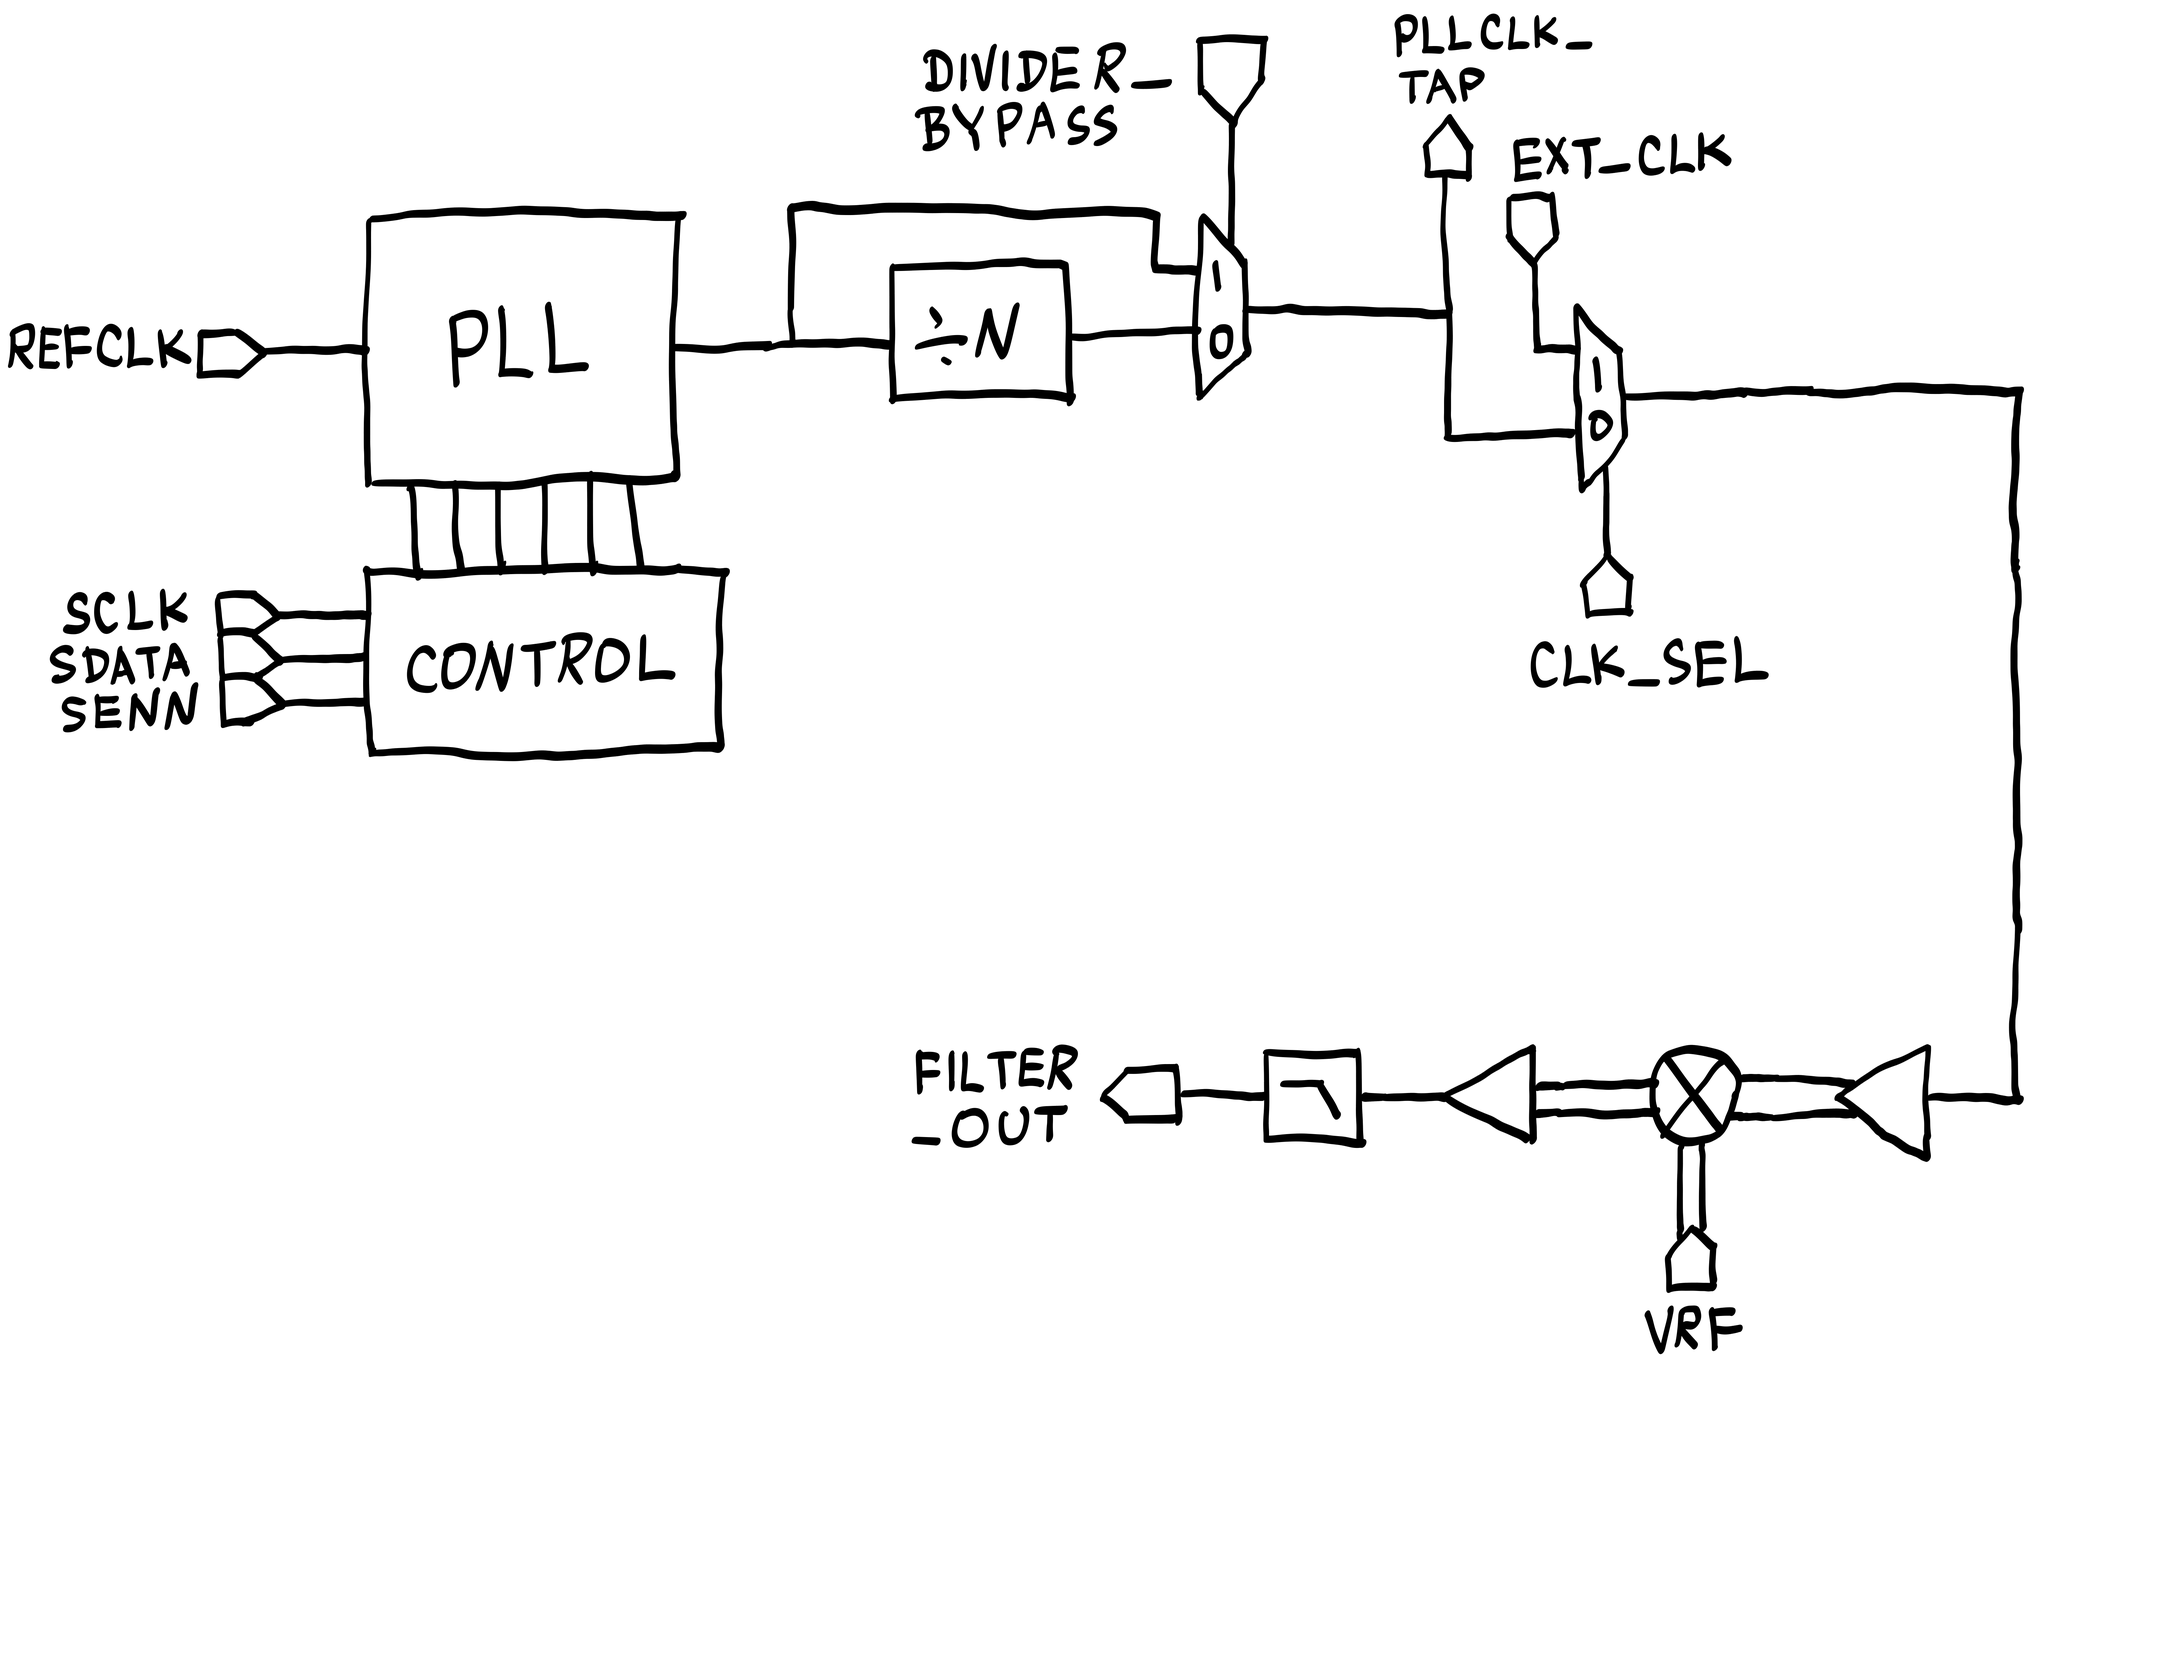
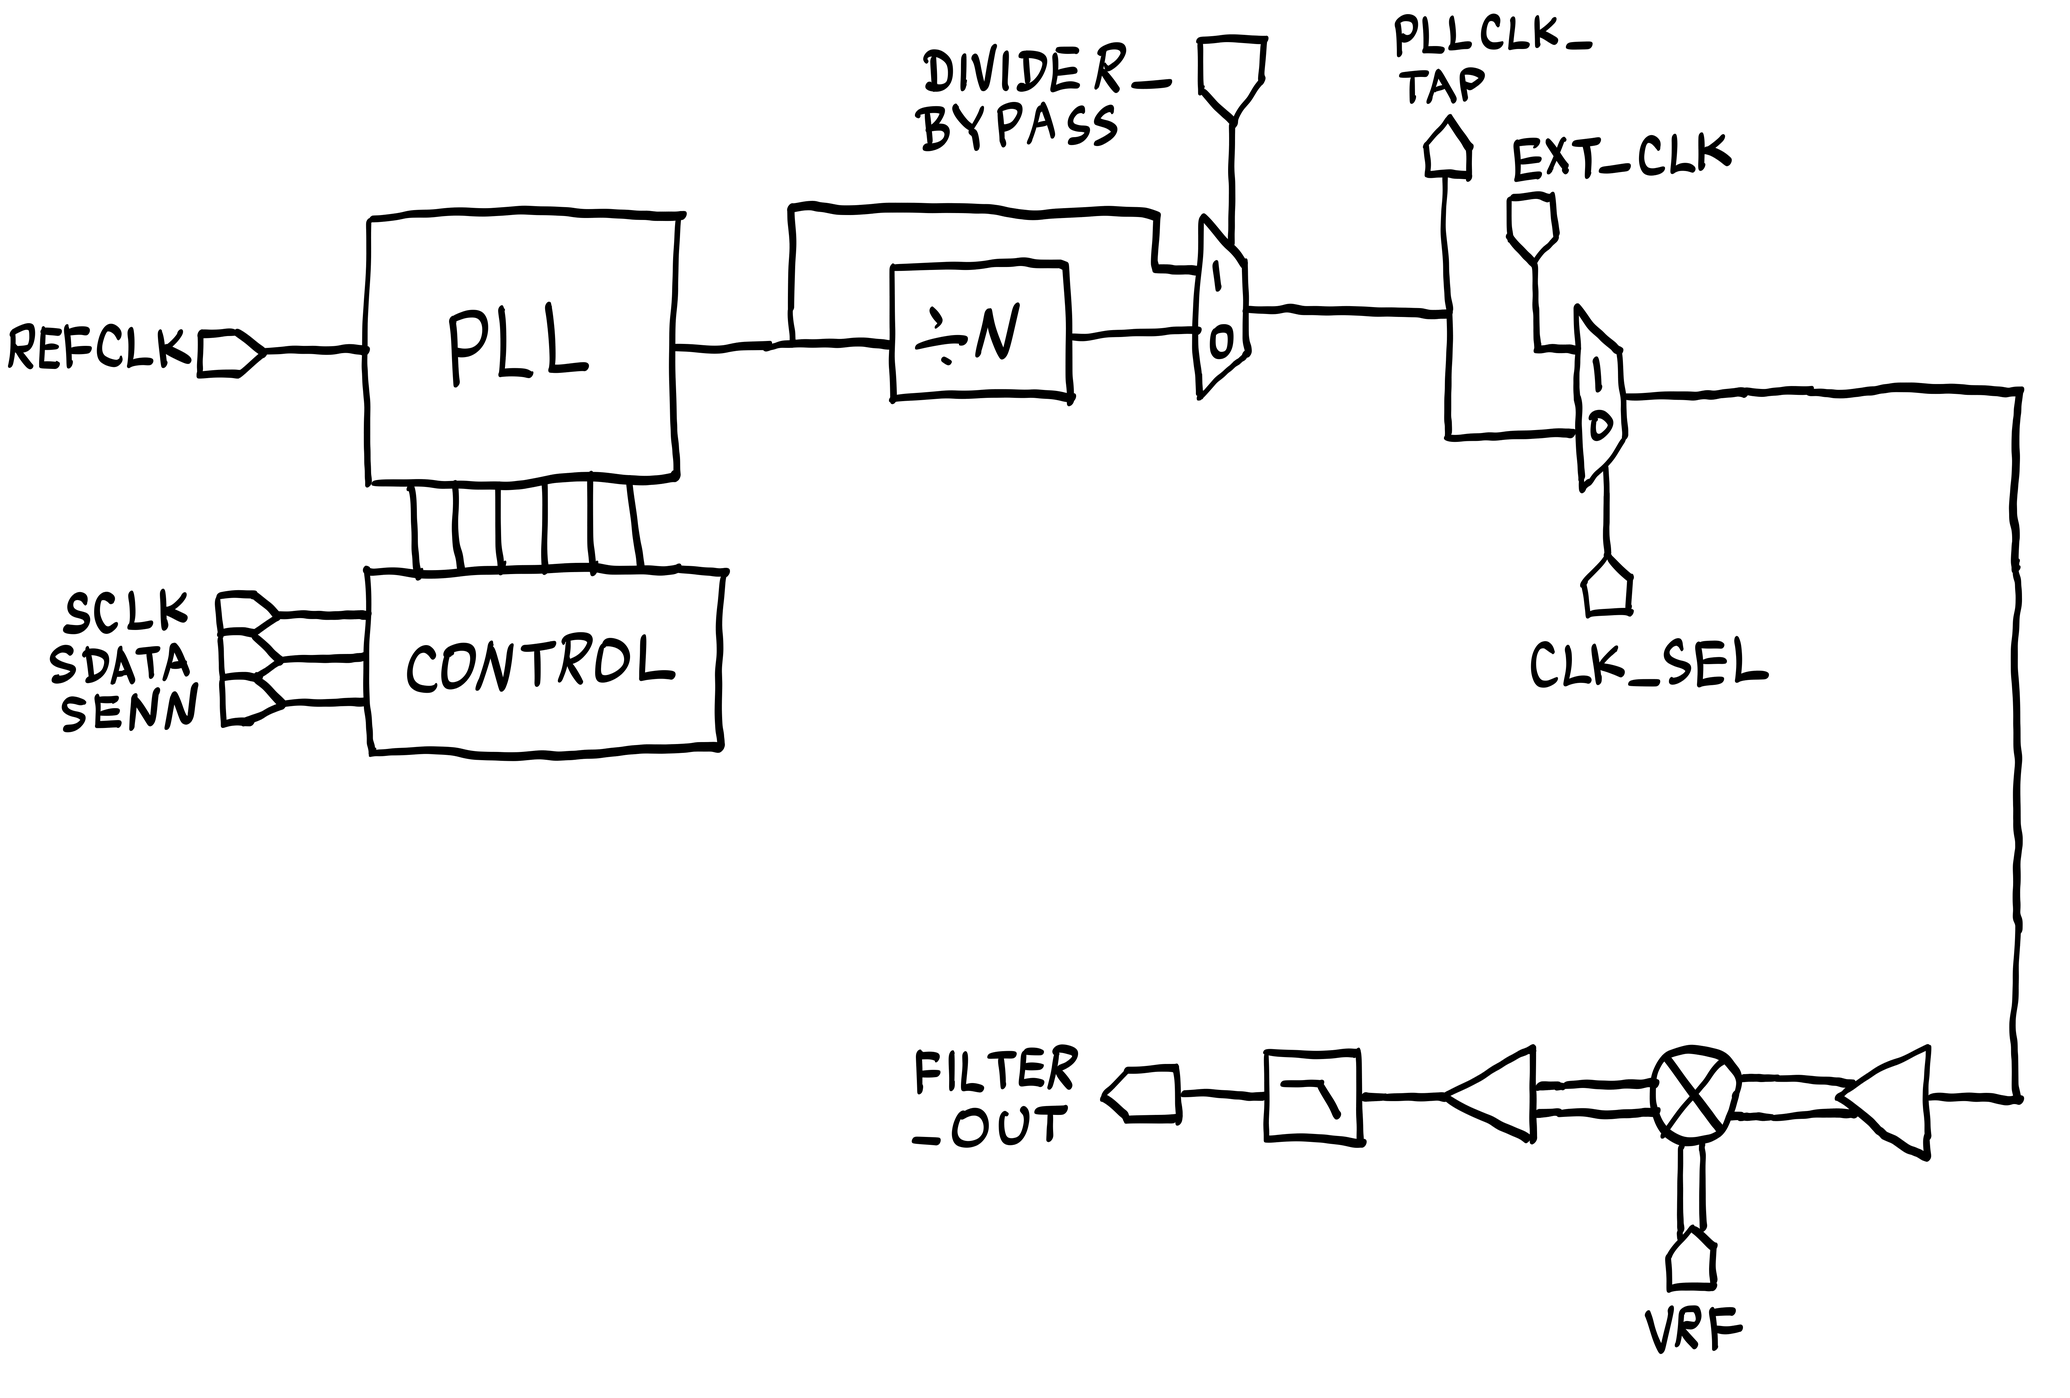
0

diff --git a/Projects/spectrum-analyzer/spectrum-analyzer.html b/Projects/spectrum-analyzer/spectrum-analyzer.html
@@ -14,14 +14,25 @@
         <h2>What is This Project About?</h2>
         <p>
                 This is the project of our tape-out course Chips-Design. In this course, we had the opportunity to design our own chip and send it for fabrication (tape-out). This is a project of a group of 2, and I am responsible for the design of the PLL frequency synthesizer and the serial input parallel output memory to configure the freqeuency synthesizer. The PLL frequency synthesizer is designed to generate a frequency range from 1 Mhz to 600 MHz.
+               <br><br>
+                The PLL is a type-II PLL with a charge pump. Three divider N1, M, N2 are used to control the final frequency of the PLL (Figure 3).
+
         </p>
         <p>
                 <img src="layout.png" width="70%" alt="Layout">
-                <div align="center">Figure: Layout of The Chip</div>
+                <div align="center">Figure 1: Layout of The Chip</div>
         </p>
         <p>
                 <img src="Block Diagram.png" width="70%" alt="Block Diagram">
-                <div align="center">Figure: Block Diagram of The Chip</div>
+                <div align="center">Figure 2: Block Diagram of The Chip</div>
+        </p>
+        <p>
+                <img src="PLL.jpg" width="70%" alt="Block Diagram">
+                <div align="center">Figure 3: Block Diagram of PLL</div>
+        </p>
+        <p>
+                <img src="Divider.jpg" width="70%" alt="Block Diagram">
+                <div align="center">Figure 4: Block Diagram of Divider</div>
         </p><hr>
         <h2>What Problems Did I Resolve in the Project?</h2>
         <h3>Validation of the Chip</h3>
